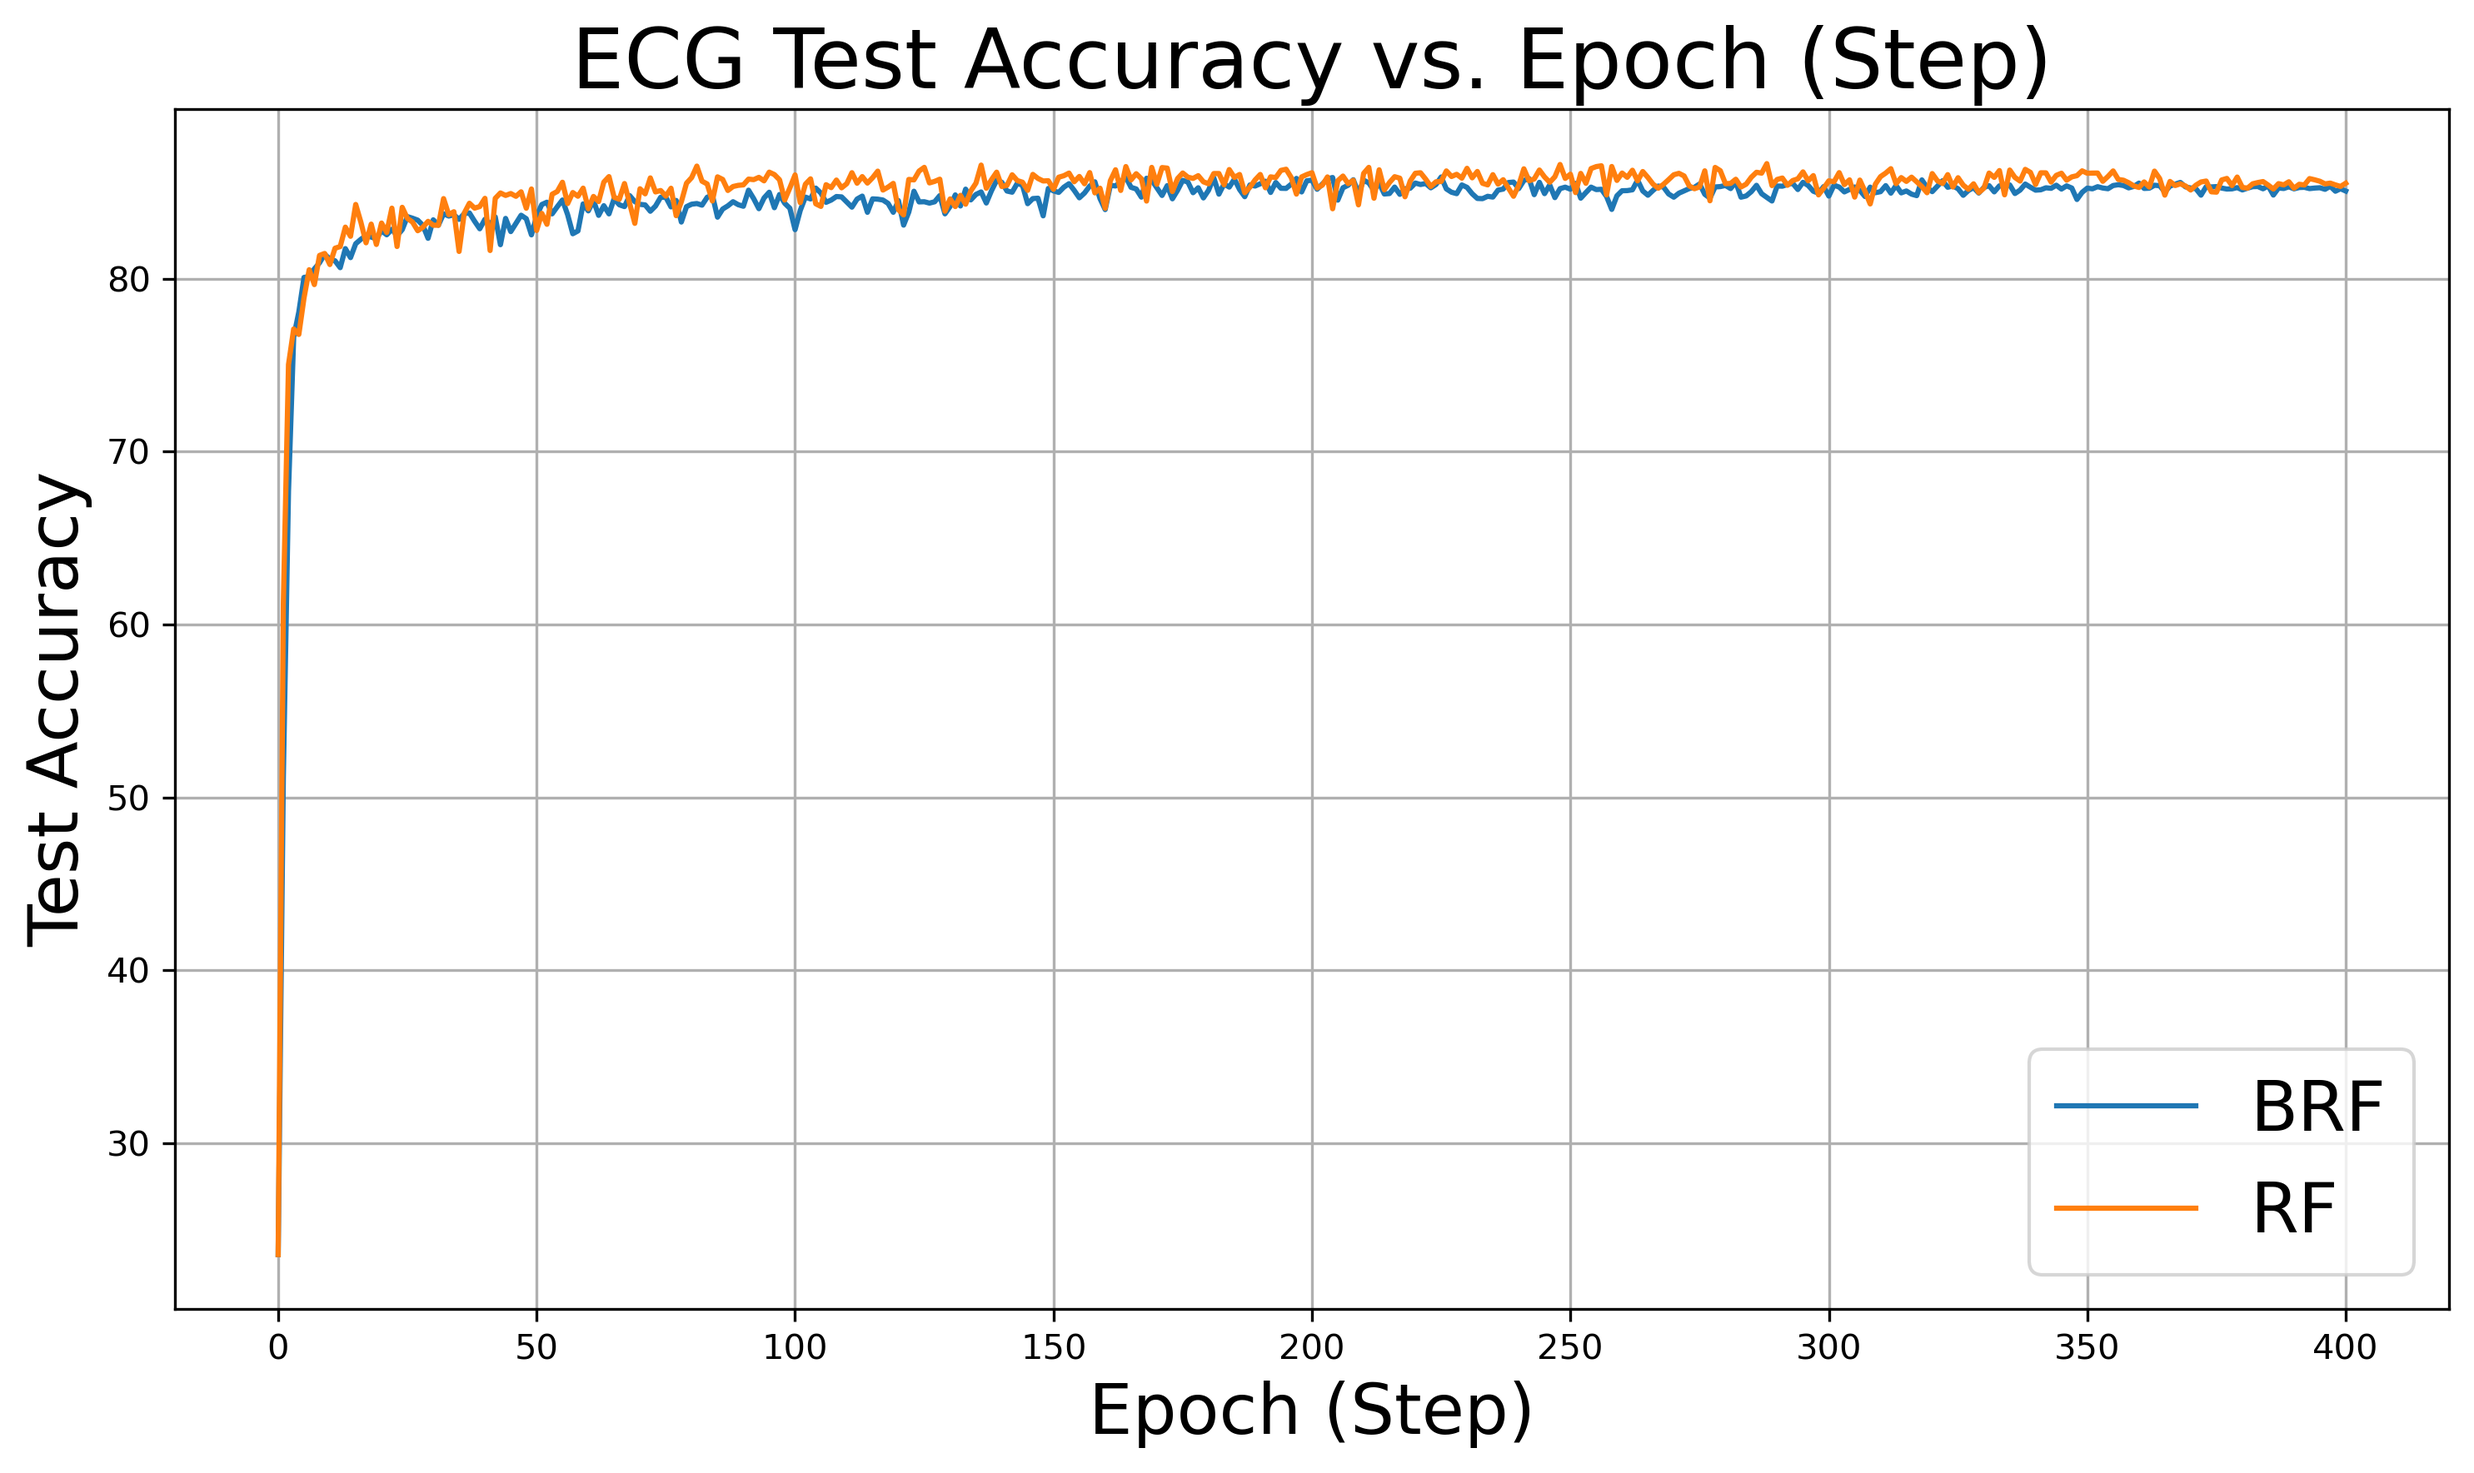
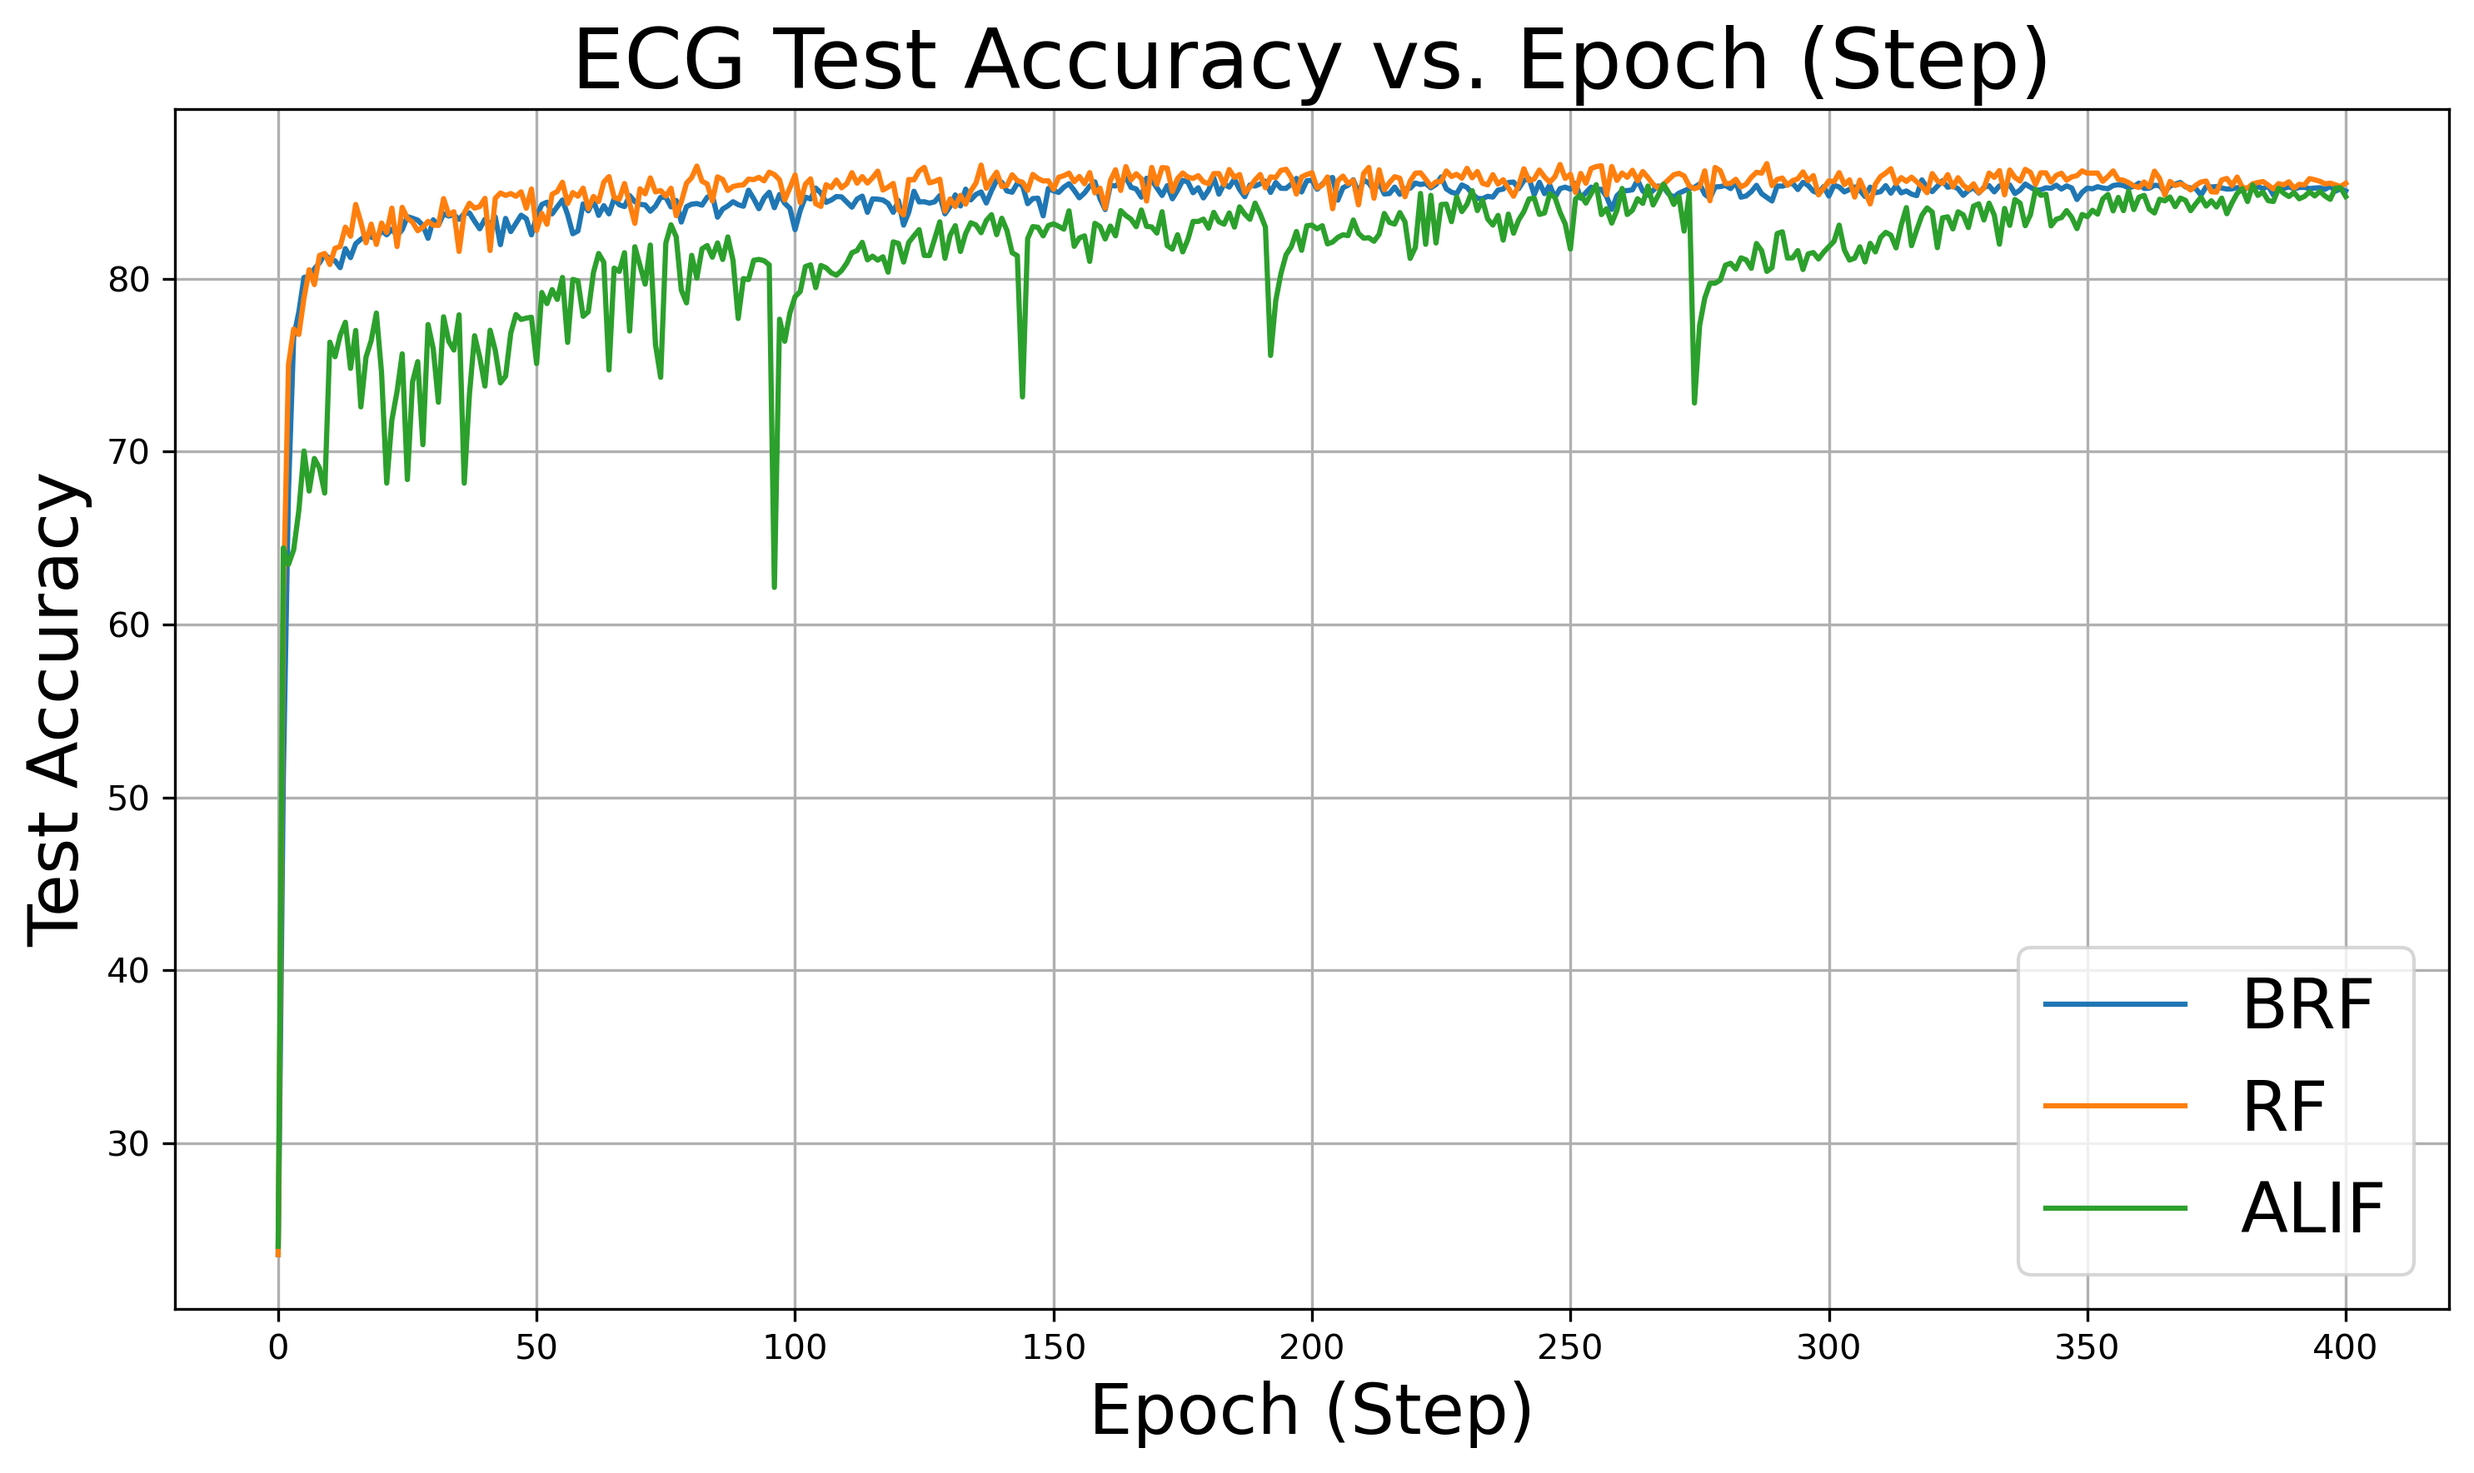
add alif plot

diff --git a/experiments/ecg/visualizations.py b/experiments/ecg/visualizations.py
@@ -10,8 +10,9 @@ from pathlib import Path
 # Plot accuracy curves for ECG dataset
 # ----------------------------------------------------------------------------
 files = {
-    'BRF': 'experiments/ecg/reproduction_results/brf/run-brf-accuracy_test.csv',
-    'RF': 'experiments/ecg/reproduction_results/rf/run-rf-tag-accuracy_test.csv'
+    'BRF': 'experiments/ecg/reproduction_results/brf/run-brf-tag-accuracy_test.csv',
+    'RF': 'experiments/ecg/reproduction_results/rf/run-rf-tag-accuracy_test.csv',
+    'ALIF': 'experiments/ecg/reproduction_results/alif/run-alif-tag-accuracy_test.csv'
 }
 
 def plot_acc_curve():
@@ -102,4 +103,4 @@ def plot_brf_parameters(init_file, trained_file):
     plt.show()
 
 
-plot_brf_parameters(init_file, trained_file)
+# plot_brf_parameters(init_file, trained_file)
